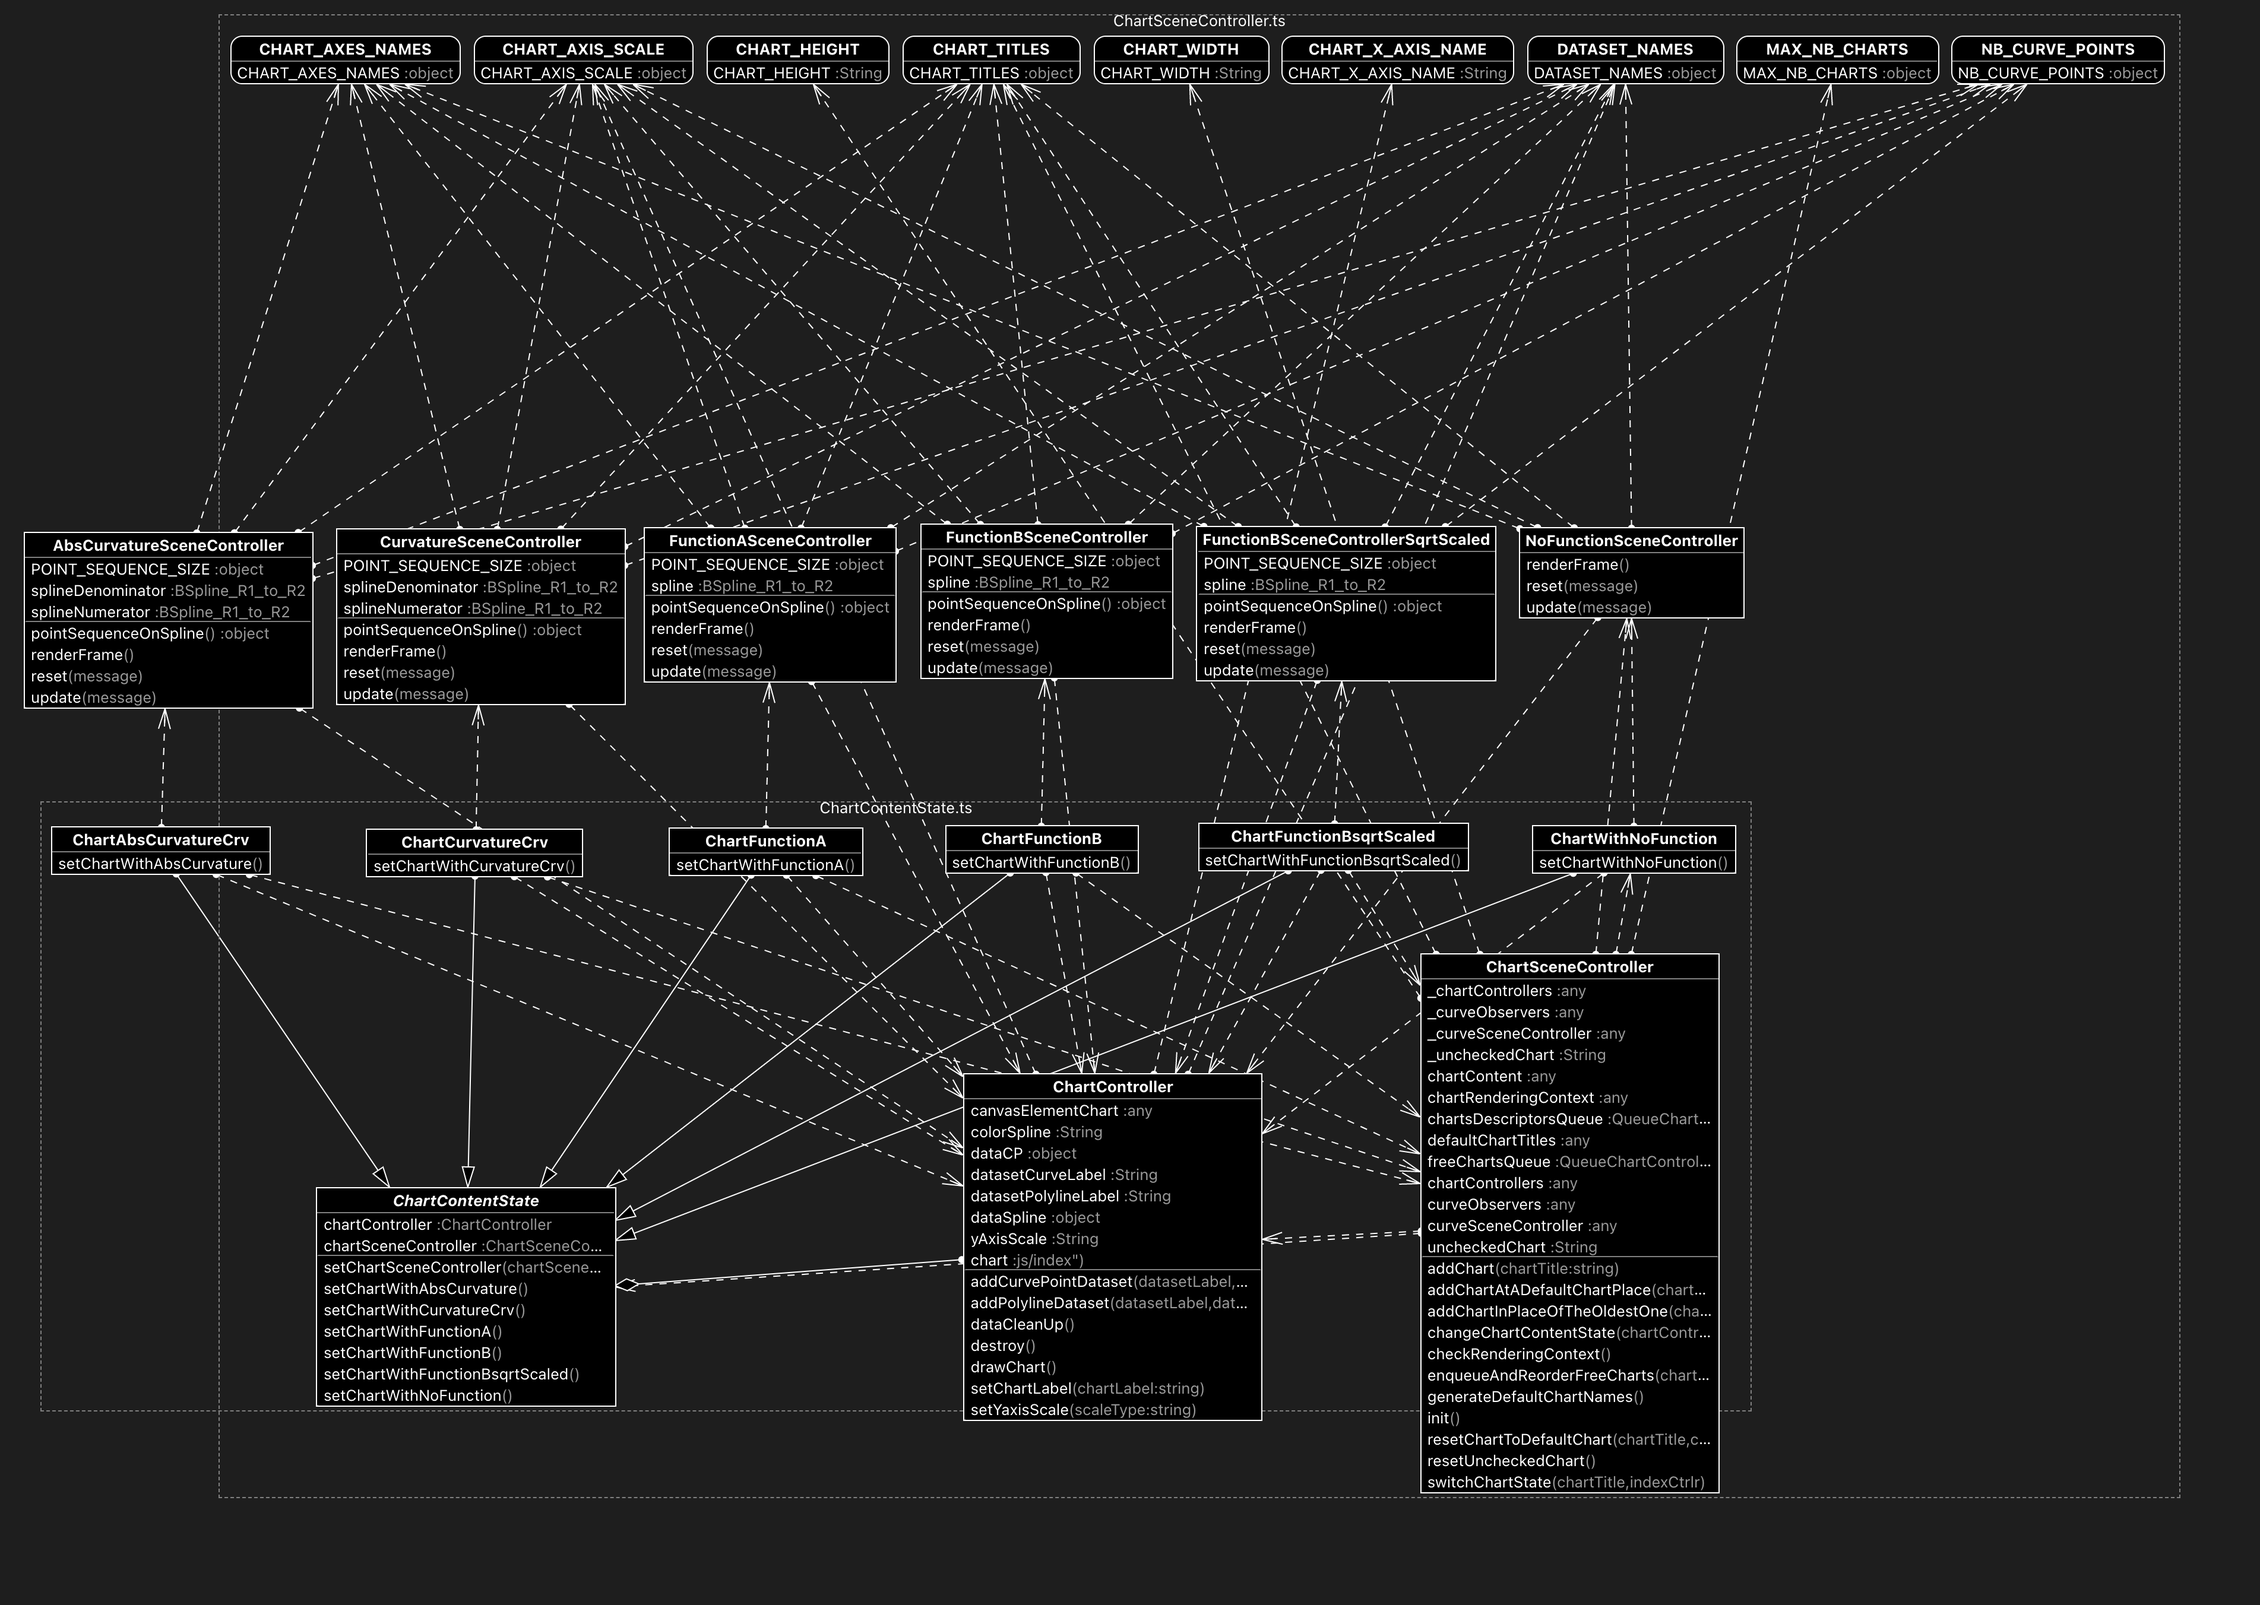
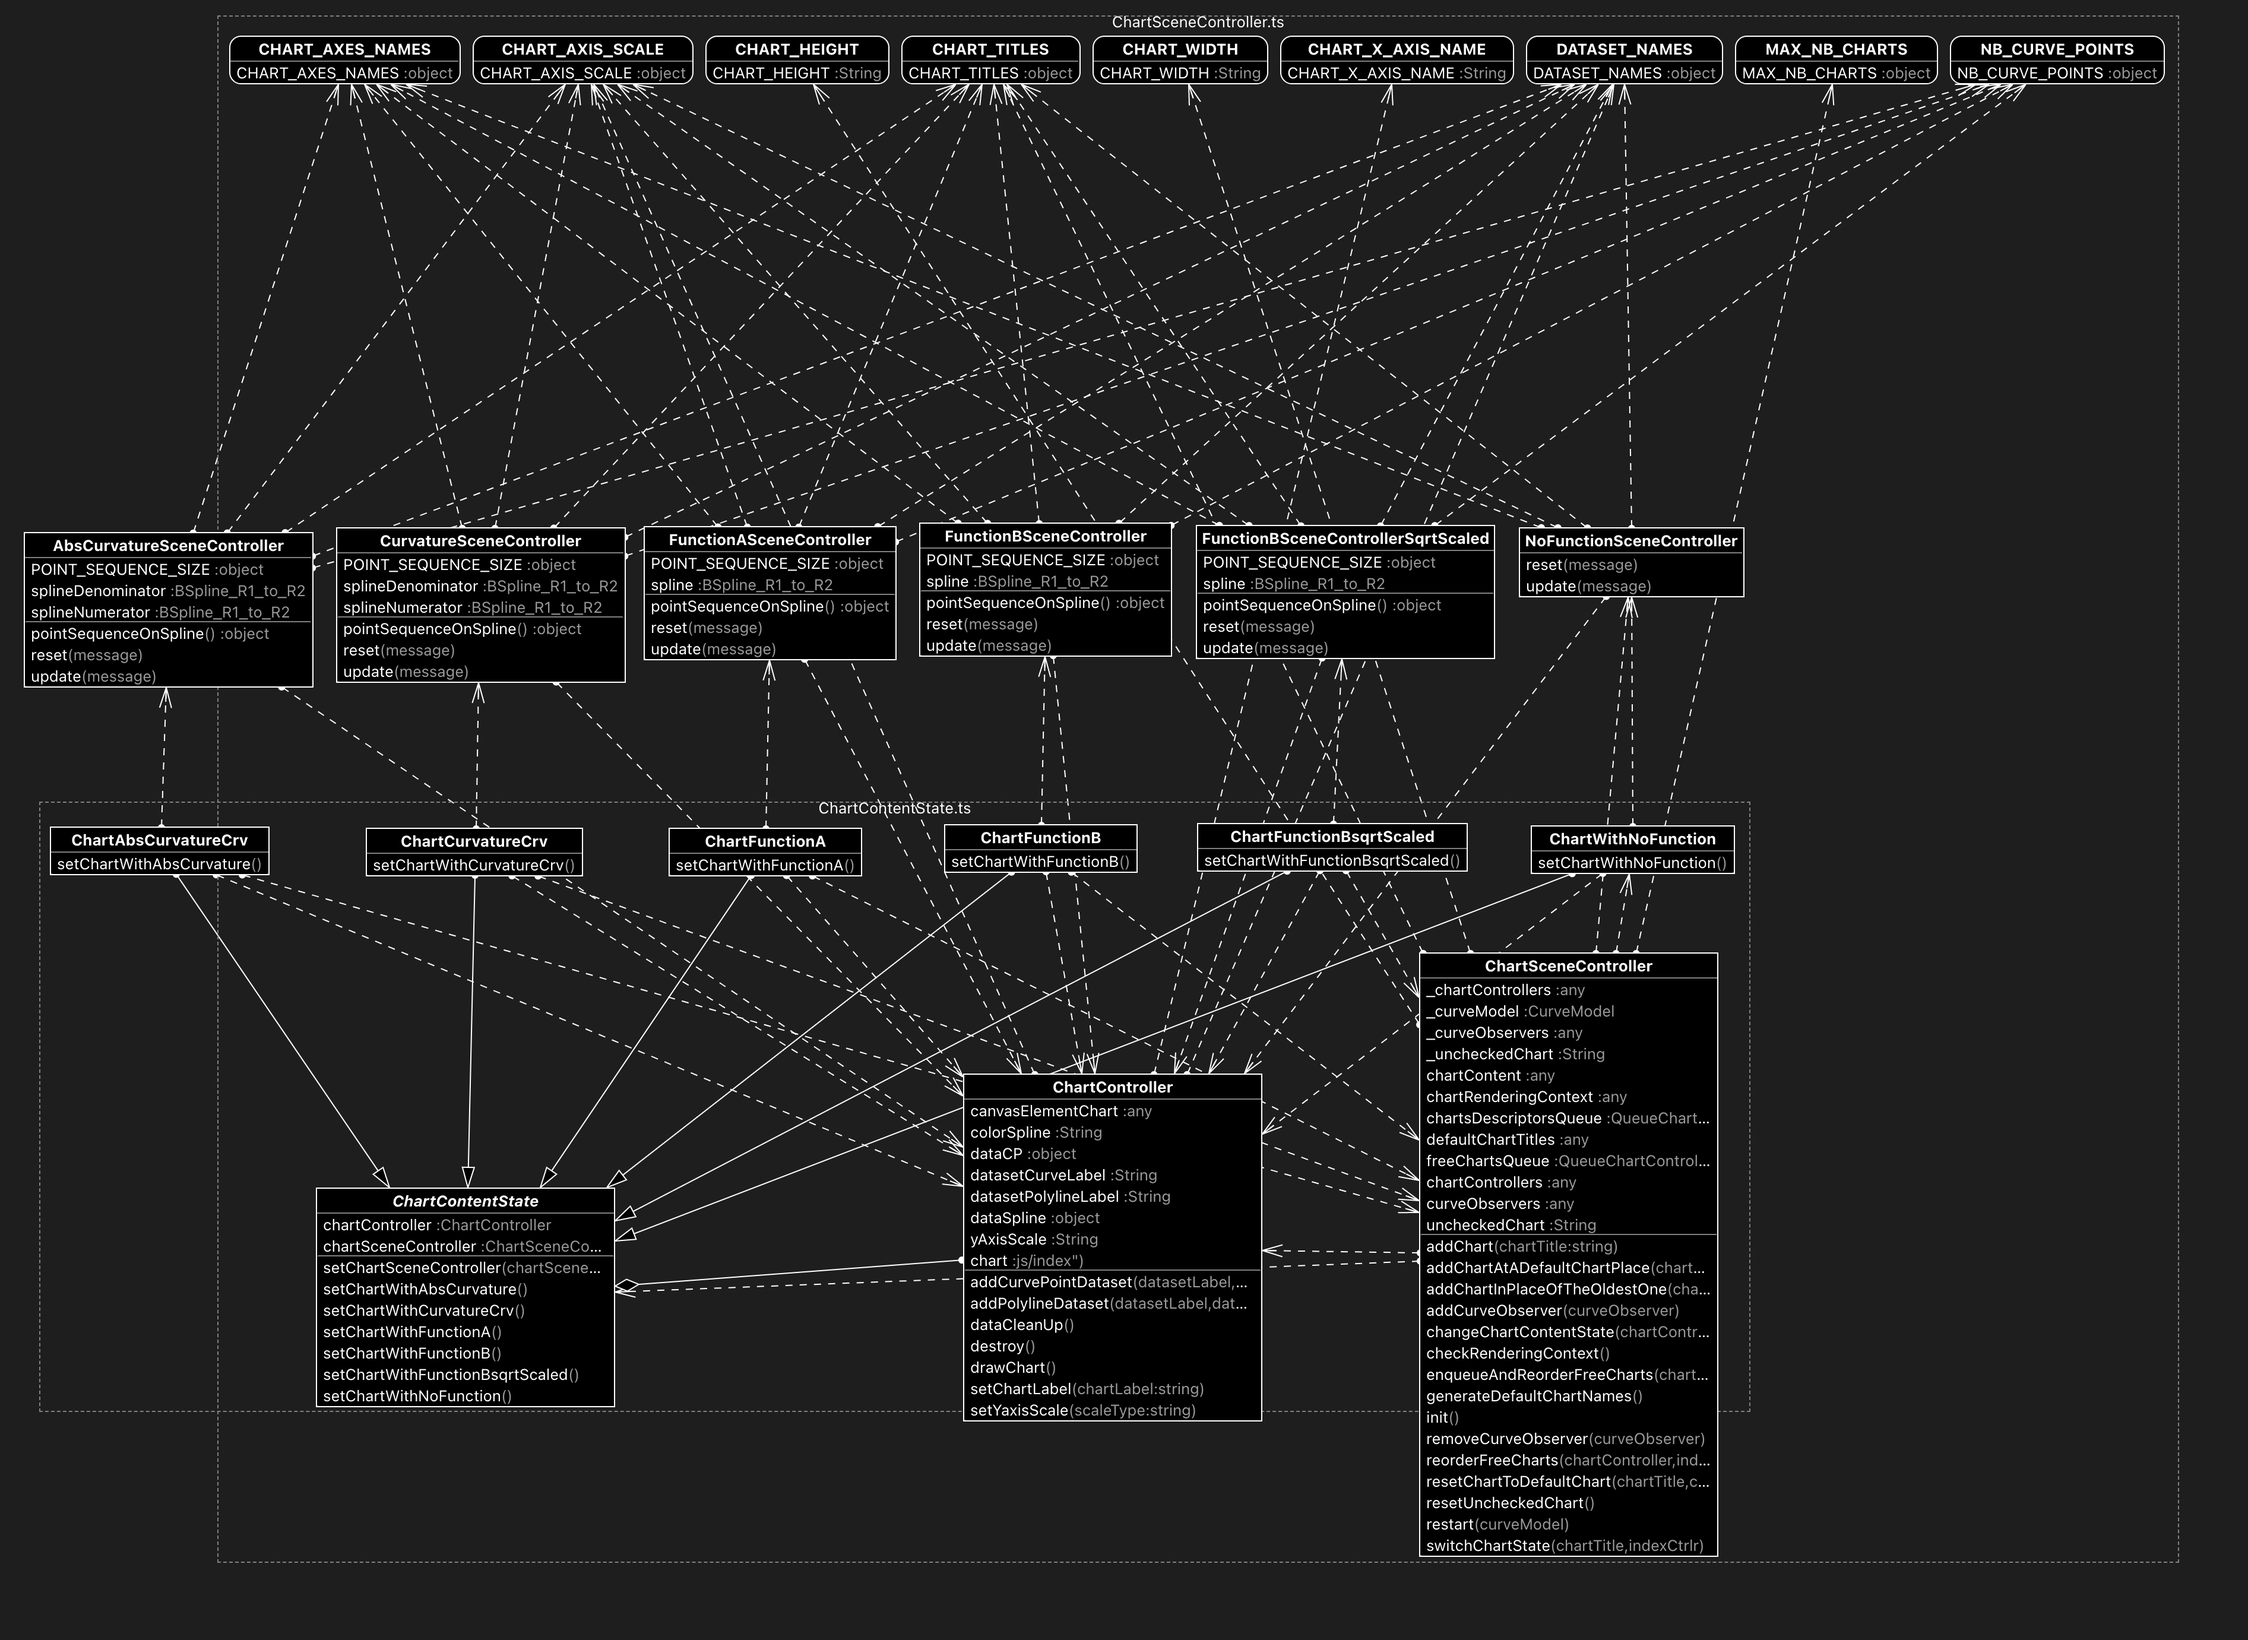
Updated the chartControllers class diagram and added a ChartEventListener to simplify the maln (tobediscussed)

diff --git a/src/chartviews/ChartEventListener.ts b/src/chartviews/ChartEventListener.ts
@@ -1,0 +1,127 @@
+import { ChartSceneController, CHART_TITLES } from "../chartcontrollers/ChartSceneController"
+import { CurveModel } from "../models/CurveModel"
+
+export function chartEventListener(curveModel: CurveModel) {
+
+    function setupChartRenderingContexts() {
+        let canvasChart1 = <HTMLCanvasElement> document.getElementById('chart1');
+        let ctxChart1 = canvasChart1.getContext('2d');
+        let canvasChart2 = <HTMLCanvasElement> document.getElementById('chart2');
+        let ctxChart2 = canvasChart2.getContext('2d');
+        let canvasChart3 = <HTMLCanvasElement> document.getElementById('chart3');
+        let ctxChart3 = canvasChart3.getContext('2d');
+        if(ctxChart1 !== null) chartRenderingContext.push(ctxChart1);
+        if(ctxChart2 !== null) chartRenderingContext.push(ctxChart2);
+        if(ctxChart3 !== null) chartRenderingContext.push(ctxChart3);
+    }
+    /* Get checkboxes IDs for the selection of function graphs*/
+    let checkBoxFunctionA = <HTMLButtonElement> document.getElementById("chkBoxFunctionA");
+    let checkBoxFunctionB = <HTMLButtonElement> document.getElementById("chkBoxFunctionB");
+    let checkBoxFunctionBsqrtScaled = <HTMLButtonElement> document.getElementById("chkBoxSqrtFunctionB");
+    let checkBoxCurvature = <HTMLButtonElement> document.getElementById("chkBoxCurvature");
+    let checkBoxAbsCurvature = <HTMLButtonElement> document.getElementById("chkBoxAbsCurvature");
+
+    let chartFunctionA = false;
+    let chartFunctionB = false;
+    let chartCurvatureCrv = false;
+    let chartAbsCurvatureCurv = false;
+    let chartFunctionBsqrtScaled = false;
+    let noAddChart = false;
+
+    let chartRenderingContext: CanvasRenderingContext2D[] = [];
+    setupChartRenderingContexts();
+    const chartSceneController = new ChartSceneController(chartRenderingContext, curveModel);
+
+    function uncheckCkbox() {
+        console.log("uncheckChart " + chartSceneController.uncheckedChart)
+        if(CHART_TITLES.indexOf(chartSceneController.uncheckedChart) !== -1) {
+            noAddChart = true;
+            switch(chartSceneController.uncheckedChart) {
+                case CHART_TITLES[0]:
+                    console.log("uncheck " +CHART_TITLES[0])
+                    checkBoxFunctionA.click();
+                    break;
+                case CHART_TITLES[1]:
+                    console.log("uncheck " +CHART_TITLES[1])
+                    checkBoxFunctionB.click();
+                    break;
+                case CHART_TITLES[2]:
+                    console.log("uncheck " +CHART_TITLES[2])
+                    checkBoxCurvature.click();
+                    break;
+                case CHART_TITLES[3]:
+                    console.log("uncheck " +CHART_TITLES[3])
+                    checkBoxAbsCurvature.click();
+                    break;
+                case CHART_TITLES[4]:
+                    console.log("uncheck " +CHART_TITLES[4])
+                    checkBoxFunctionBsqrtScaled.click();
+                    break;
+            }
+        }
+        chartSceneController.resetUncheckedChart();
+        noAddChart = false;
+    }
+
+    function chkboxFunctionA() {
+        if(chartFunctionA) {
+            chartFunctionA = false;
+            if(!noAddChart) chartSceneController.addChart(CHART_TITLES[0]);
+        } else {
+            chartFunctionA = true;
+            chartSceneController.addChart(CHART_TITLES[0]);
+            uncheckCkbox();
+        }
+    }
+
+    function chkboxFunctionB() {
+        if(chartFunctionB) {
+            chartFunctionB = false;
+            if(!noAddChart) chartSceneController.addChart(CHART_TITLES[1]);
+        } else {
+            chartFunctionB = true;
+            chartSceneController.addChart(CHART_TITLES[1]);
+            uncheckCkbox();
+        }
+    }
+
+    function chkboxCurvature() {
+        if(chartCurvatureCrv) {
+            chartCurvatureCrv = false;
+            if(!noAddChart) chartSceneController.addChart(CHART_TITLES[2]);
+        } else {
+            chartCurvatureCrv = true;
+            chartSceneController.addChart(CHART_TITLES[2]);
+            uncheckCkbox();
+        }
+    }
+
+    function chkboxAbsCurvature() {
+        if(chartAbsCurvatureCurv) {
+            chartAbsCurvatureCurv = false;
+            if(!noAddChart) chartSceneController.addChart(CHART_TITLES[3]);
+        } else {
+            chartAbsCurvatureCurv = true;
+            chartSceneController.addChart(CHART_TITLES[3]);
+            uncheckCkbox();
+        }
+    }
+
+    function chkboxFunctionBsqrtScaled() {
+        if(chartFunctionBsqrtScaled) {
+            chartFunctionBsqrtScaled = false;
+            if(!noAddChart) chartSceneController.addChart(CHART_TITLES[4]);
+        } else {
+            chartFunctionBsqrtScaled = true;
+            chartSceneController.addChart(CHART_TITLES[4]);
+            uncheckCkbox();
+        }
+    }
+
+    /* Add event handlers for checkbox processing */
+    checkBoxFunctionA.addEventListener('click',chkboxFunctionA);
+    checkBoxFunctionB.addEventListener('click',chkboxFunctionB);
+    checkBoxFunctionBsqrtScaled.addEventListener('click',chkboxFunctionBsqrtScaled);
+    checkBoxCurvature.addEventListener('click',chkboxCurvature);
+    checkBoxAbsCurvature.addEventListener('click',chkboxAbsCurvature);
+}
